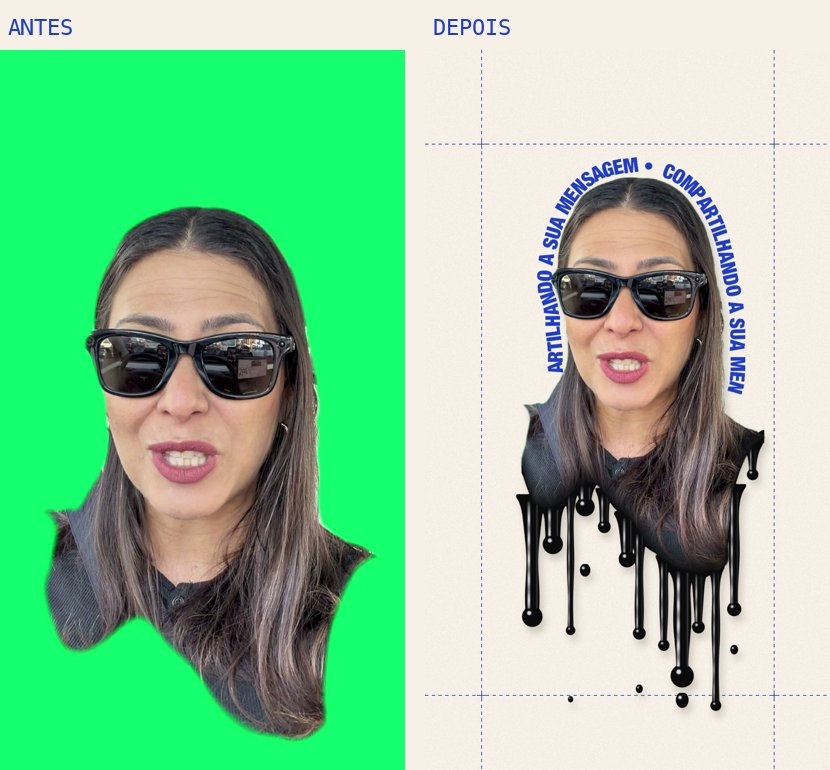
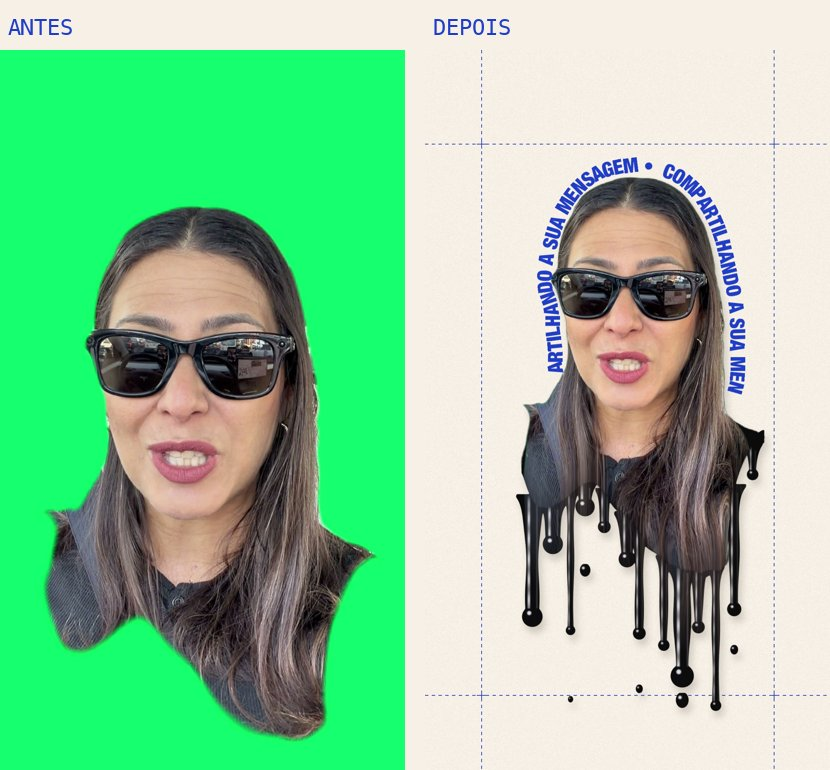
colagem-derretendo: a imagem escorre para dentro dos pingos

Changed region(s): [[0.6325, 0.561, 0.9036, 0.8104], [0.8735, 0.5299, 0.9036, 0.5922], [0.8735, 0.6234, 0.9036, 0.6545]]

diff --git a/edicao-de-video/colagem-derretendo/scripts/tinta.py b/edicao-de-video/colagem-derretendo/scripts/tinta.py
@@ -48,12 +48,42 @@ class Tinta:
         cols = np.flatnonzero(ok)
         xa, xb = cols.min(), cols.max()
         bb = np.where(ok, b, 0)
-        # 1) escurece a parte de baixo do busto (vira tinta)
-        D = 150 * self.e * min(1, cresce * 1.2)
+        e = self.e
+        cr = min(1.0, cresce)
+        xs_i = np.arange(W)[None, :]
+        # 1) a parte de baixo do busto cede: a imagem escorrega para baixo e vai escurecendo
+        # cada escorrido puxa a imagem para baixo em volta dele
+        xw = np.arange(W, dtype=np.float32)
+        puxa = np.full(W, 18 * e * cr, np.float32)
+        self._gx = []
+        for g in self.gotas:
+            x = xa + g["u"] * (xb - xa)
+            prog = float(np.clip((cresce - g["atraso"]) / (1 - g["atraso"] + 1e-6), 0, None))
+            self._gx.append((x, prog))
+            puxa += 85 * e * min(prog, 1.3) * np.exp(-((xw - x) / (g["w"] * 1.1)) ** 2) * (0.85 + 0.15 * np.sin(t * 1.1 + g["ph"]))
+        D = 260 * e * cr + 1
         yy = np.arange(H, dtype=np.float32)[:, None]
-        k = np.clip((yy - (bb[None, :] - D)) / max(D, 1), 0, 1) ** 1.4 * ok[None, :]
-        k = k * 0.92
-        out_rgb[:H] = rgb * (1 - k[..., None]) + TINTA * k[..., None]
+        rel = np.clip((yy - (bb[None, :] - D)) / D, 0, 1) * ok[None, :]
+        onda = 1 + 0.25 * np.sin(xw[None, :] / 37 + t * 1.3)
+        sag = puxa[None, :] * rel ** 2.2 * onda
+        # fora do recorte vira tinta (não estica o fundo), e a amostra é interpolada entre linhas (sem listras)
+        limpo = rgb * al[..., None] + TINTA * (1 - al[..., None])
+        yf = np.clip(yy - sag, 0, H - 1.001); y0i = yf.astype(np.int32); fr = (yf - y0i)[..., None]
+        cedido = limpo[y0i, xs_i] * (1 - fr) + limpo[y0i + 1, xs_i] * fr
+        k = (rel ** 2.2 * 0.38)[..., None]
+        out_rgb[:H] = cedido * (1 - k) + TINTA * k
+        # cor dos escorridos: a própria imagem esticada para baixo (fios do cabelo e roupa continuam
+        # dentro da tinta) e escurecendo até virar tinta preta perto das pontas
+        y0r = int(max(0, np.nanmin(b) - 40))
+        Yr = np.arange(y0r, H_out, dtype=np.float32)[:, None]
+        d = np.clip(Yr - bb[None, :], 0, None)
+        Dm, Sm = (60 * e + puxa * 0.9)[None, :], 190 * e
+        yf2 = np.clip(bb[None, :] - Dm * (1 - np.exp(-d / Sm)) - 1, 0, H - 1.001); y2i = yf2.astype(np.int32); f2 = (yf2 - y2i)[..., None]
+        base = out_rgb[:H] * al[..., None] + TINTA * (1 - al[..., None])
+        esticado = base[y2i, xs_i] * (1 - f2) + base[y2i + 1, xs_i] * f2
+        m = np.clip(0.38 + 0.6 * np.clip(d / (300 * e), 0, 1) ** 0.9, 0, 0.98)[..., None]
+        cor_escorre = np.empty((H_out, W, 3), np.float32); cor_escorre[:] = TINTA
+        cor_escorre[y0r:] = esticado * (1 - m) + TINTA * m
         # 2) borda líquida + escorridos (forma)
         ink = np.zeros((H_out, W), np.float32)
         hl = np.zeros((H_out, W), np.float32)
@@ -91,7 +121,7 @@ class Tinta:
             ink[sl] = np.maximum(ink[sl], sh[:, cx0:cx1])
             # brilho: faixa à esquerda + ponto no bulbo
             fx = x - w * 0.22
-            faixa = np.clip(w * 0.09 - np.abs(XX - fx), 0, 1) * np.clip((dy - 12) / 30, 0, 1) * (dy < L - r) * (0.55 + 0.35 * np.sin(dy / 23 + g['ph']) ** 2)
+            faixa = np.clip(w * 0.09 - np.abs(XX - fx), 0, 1) * np.clip((dy + 8) / 40, 0, 1) * (dy < L - r) * (0.5 + 0.35 * np.sin(dy / 23 + g['ph']) ** 2)
             faixa = np.maximum(faixa, np.clip(w * 0.05 - np.abs(XX - (x + w * 0.3)), 0, 1) * (dy > 20) * (dy < L - r) * 0.22)
             ponto = np.clip(r * 0.22 - np.sqrt((XX - (x - r * 0.3)) ** 2 + (YY - (cy - r * 0.35)) ** 2), 0, 1) * 0.9
             hl[sl] = np.maximum(hl[sl], np.maximum(faixa, ponto)[:, cx0:cx1])
@@ -119,8 +149,8 @@ class Tinta:
         ink = np.clip((np.asarray(im).astype(np.float32) / 255 - 0.5) * 3 + 0.5, 0, 1)
         hl = np.asarray(Image.fromarray((hl * 255).astype(np.uint8)).filter(ImageFilter.GaussianBlur(1.6))).astype(np.float32) / 255
         hl = hl * ink
-        # borda clara à direita (reflexo do ambiente)
-        cor = TINTA + hl[..., None] * (np.array([0.95, 0.95, 0.97]) - TINTA)
+        # brilho por cima da cor que escorre
+        cor = cor_escorre + hl[..., None] * (np.array([0.95, 0.95, 0.97], np.float32) - cor_escorre)
         nova = ink * (1 - out_al)
         out_rgb = out_rgb * out_al[..., None] + cor * nova[..., None]
         a2 = np.clip(out_al + nova, 0, 1)

diff --git a/edicao-de-video/colagem-derretendo/SKILL.md b/edicao-de-video/colagem-derretendo/SKILL.md
@@ -5,7 +5,7 @@ description: Edita um vídeo falado (Reels/TikTok 9:16) no estilo colagem editor
 
 # Colagem derretendo
 
-A pessoa vira um busto recortado sobre papel bege, com a borda de baixo derretendo em tinta preta brilhante (escorridos com bulbo, brilho e pingos caindo). Por cima, uma colagem editorial presa às palavras da fala. Tudo sai de um `roteiro.json` e dois comandos, em Python + ffmpeg, sem app de edição.
+A pessoa vira um busto recortado sobre papel bege, com a borda de baixo derretendo: a própria imagem (cabelo, roupa, mãos) cede e escorre para dentro de cada pingo, escurecendo até virar tinta preta brilhante, com bulbo, brilho e pingos caindo. Por cima, uma colagem editorial presa às palavras da fala. Tudo sai de um `roteiro.json` e dois comandos, em Python + ffmpeg, sem app de edição.
 
 Requisitos: macOS (o recorte e os olhos usam o Vision do Mac), `ffmpeg`, Python 3 com `pillow numpy faster-whisper`. Rode sempre com `python3 -I`.
 

diff --git a/edicao-de-video/colagem-derretendo/guia/README.md b/edicao-de-video/colagem-derretendo/guia/README.md
@@ -48,7 +48,7 @@ O Claude converte para 9:16, recorta você do fundo (pelo verde ou pelo recorte 
 #### 02 · Tinta preta derretendo
 > Coloca o fundo bege claro e faz a parte de baixo do meu busto derreter em tinta preta brilhante, começando nos primeiros 3 segundos e escorrendo mais no final.
 
-O corpo é cortado logo abaixo do queixo, numa linha ondulada, e a tinta escorre dali com bulbos, brilho e pingos caindo. Mais ombro: *"corta o busto mais embaixo"*. Menos tinta: *"escorridos mais curtos"*.
+O corpo é cortado logo abaixo do queixo, numa linha ondulada. A parte de baixo da imagem cede e escorre: o cabelo e a roupa descem para dentro de cada pingo e vão escurecendo até virar tinta preta brilhante, com bulbos e pingos caindo. Mais ombro: *"corta o busto mais embaixo"*. Menos tinta: *"escorridos mais curtos"*.
 
 ![](imagens/02-tinta.jpg)
 
